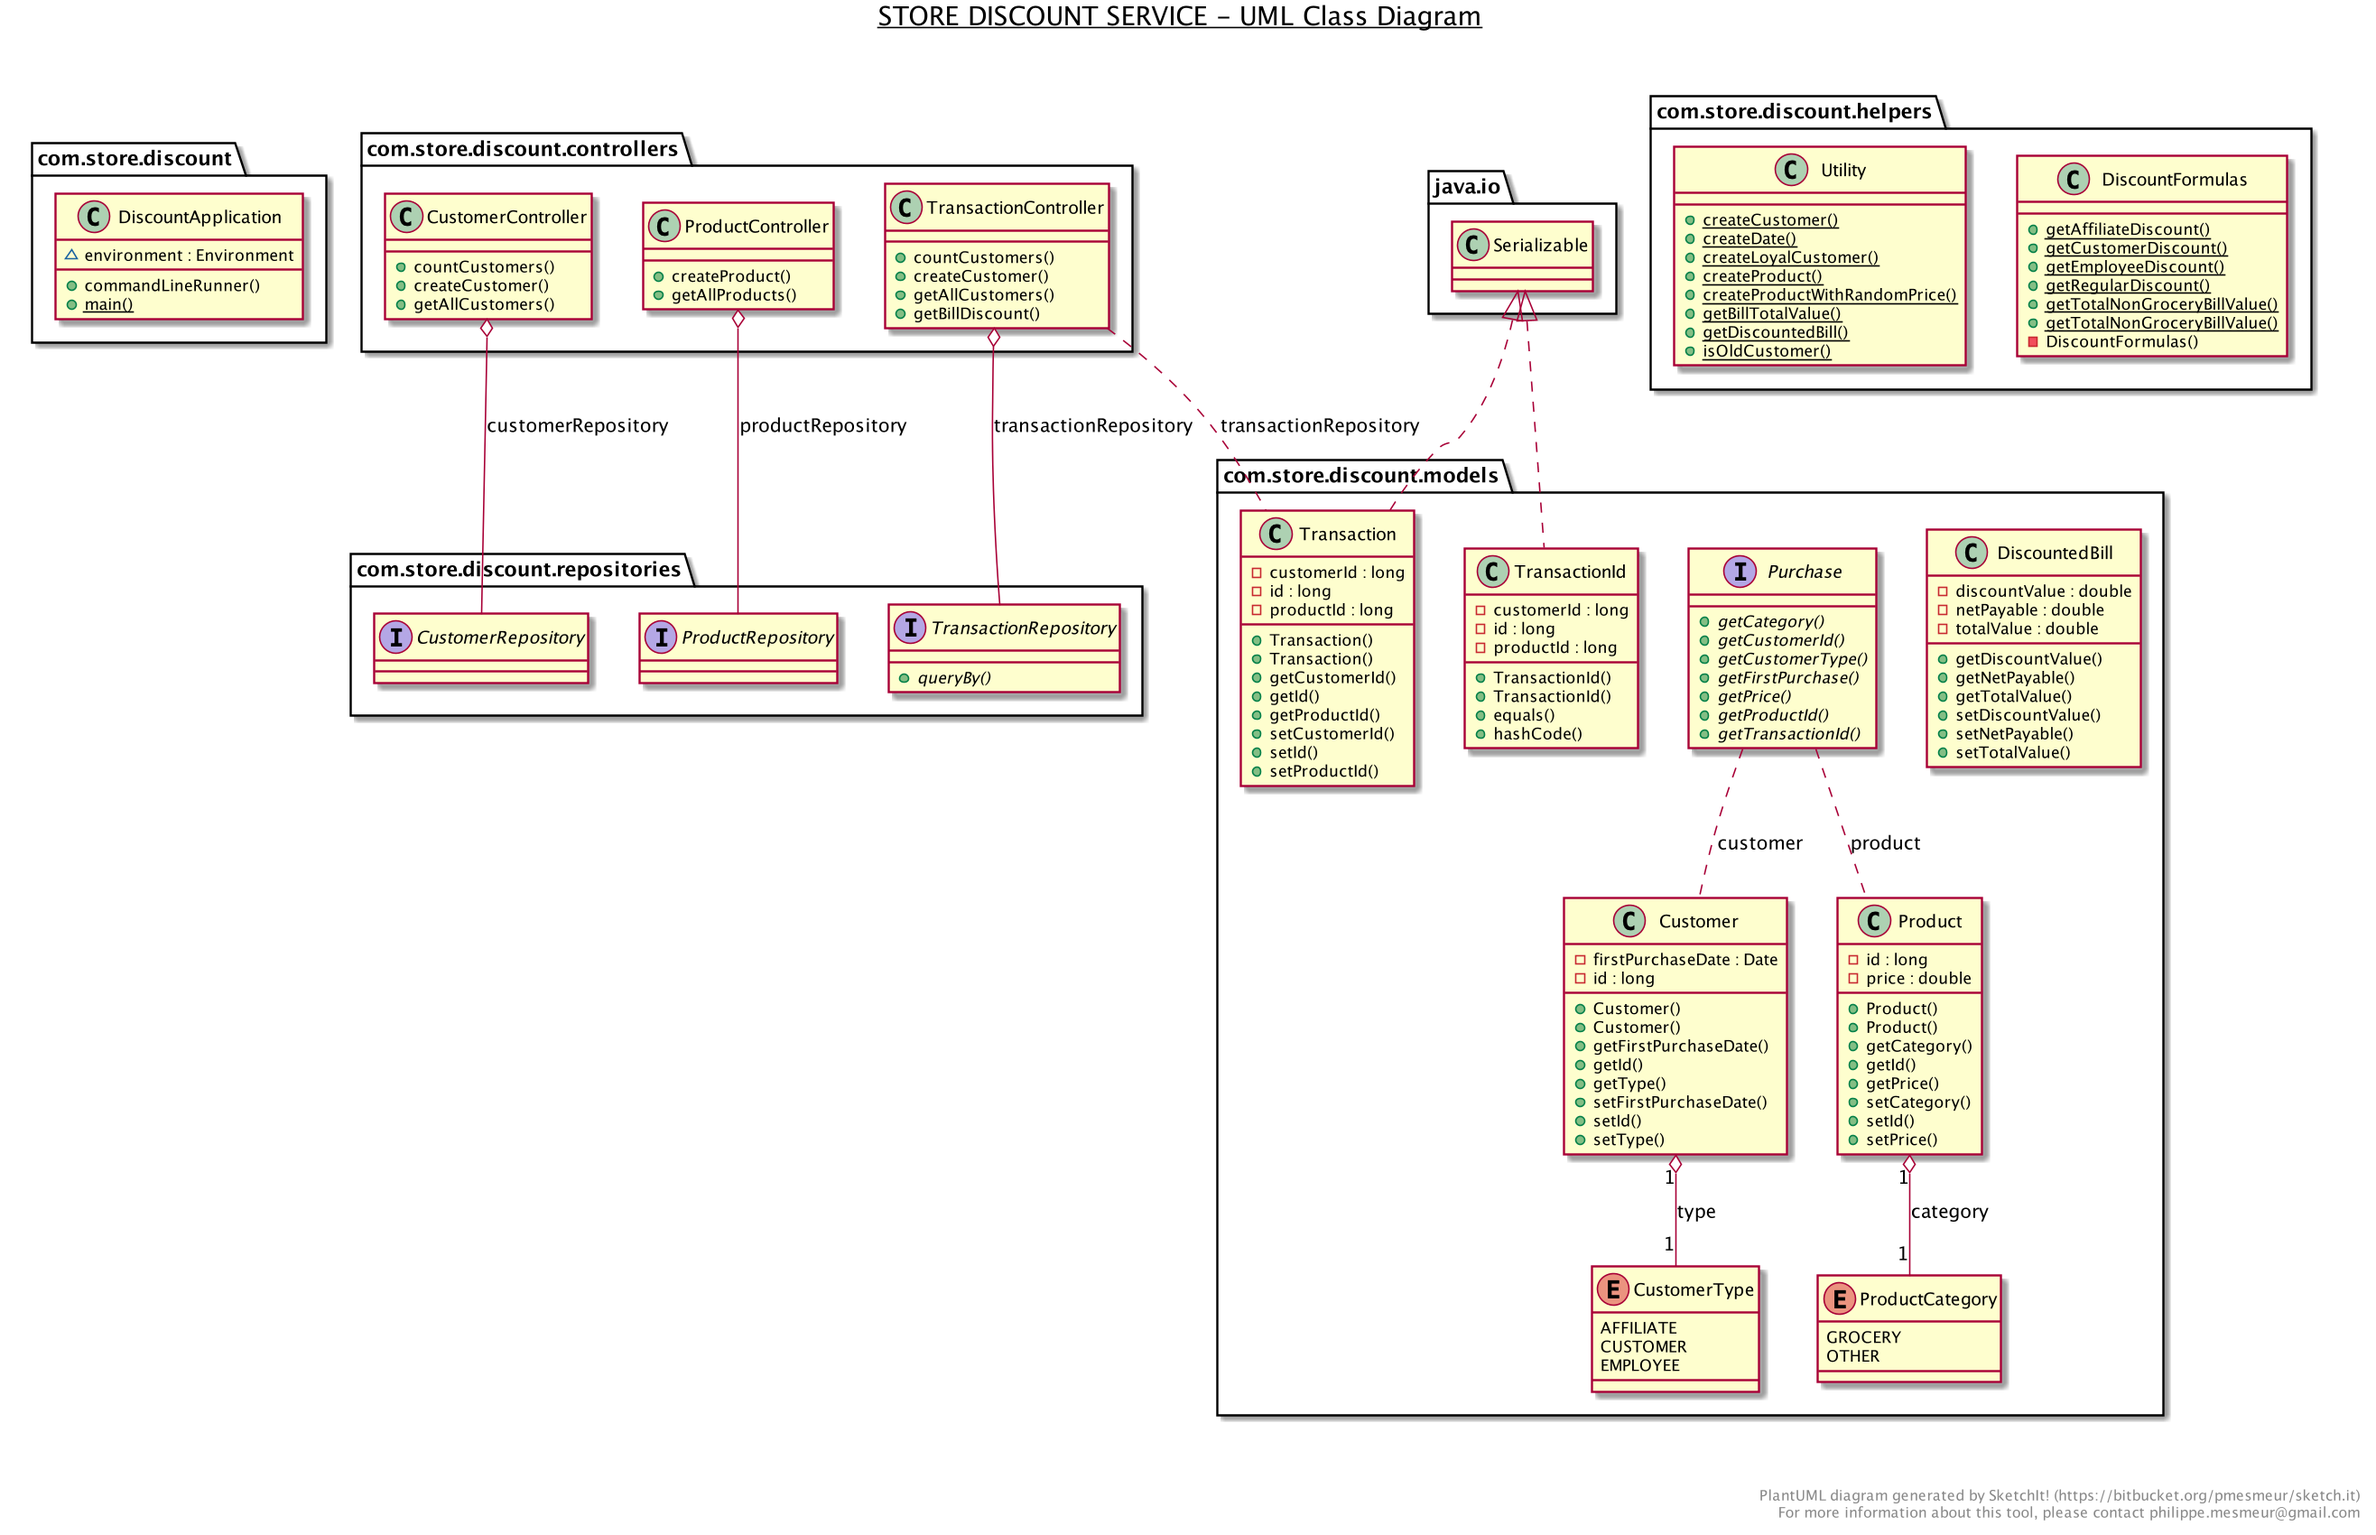
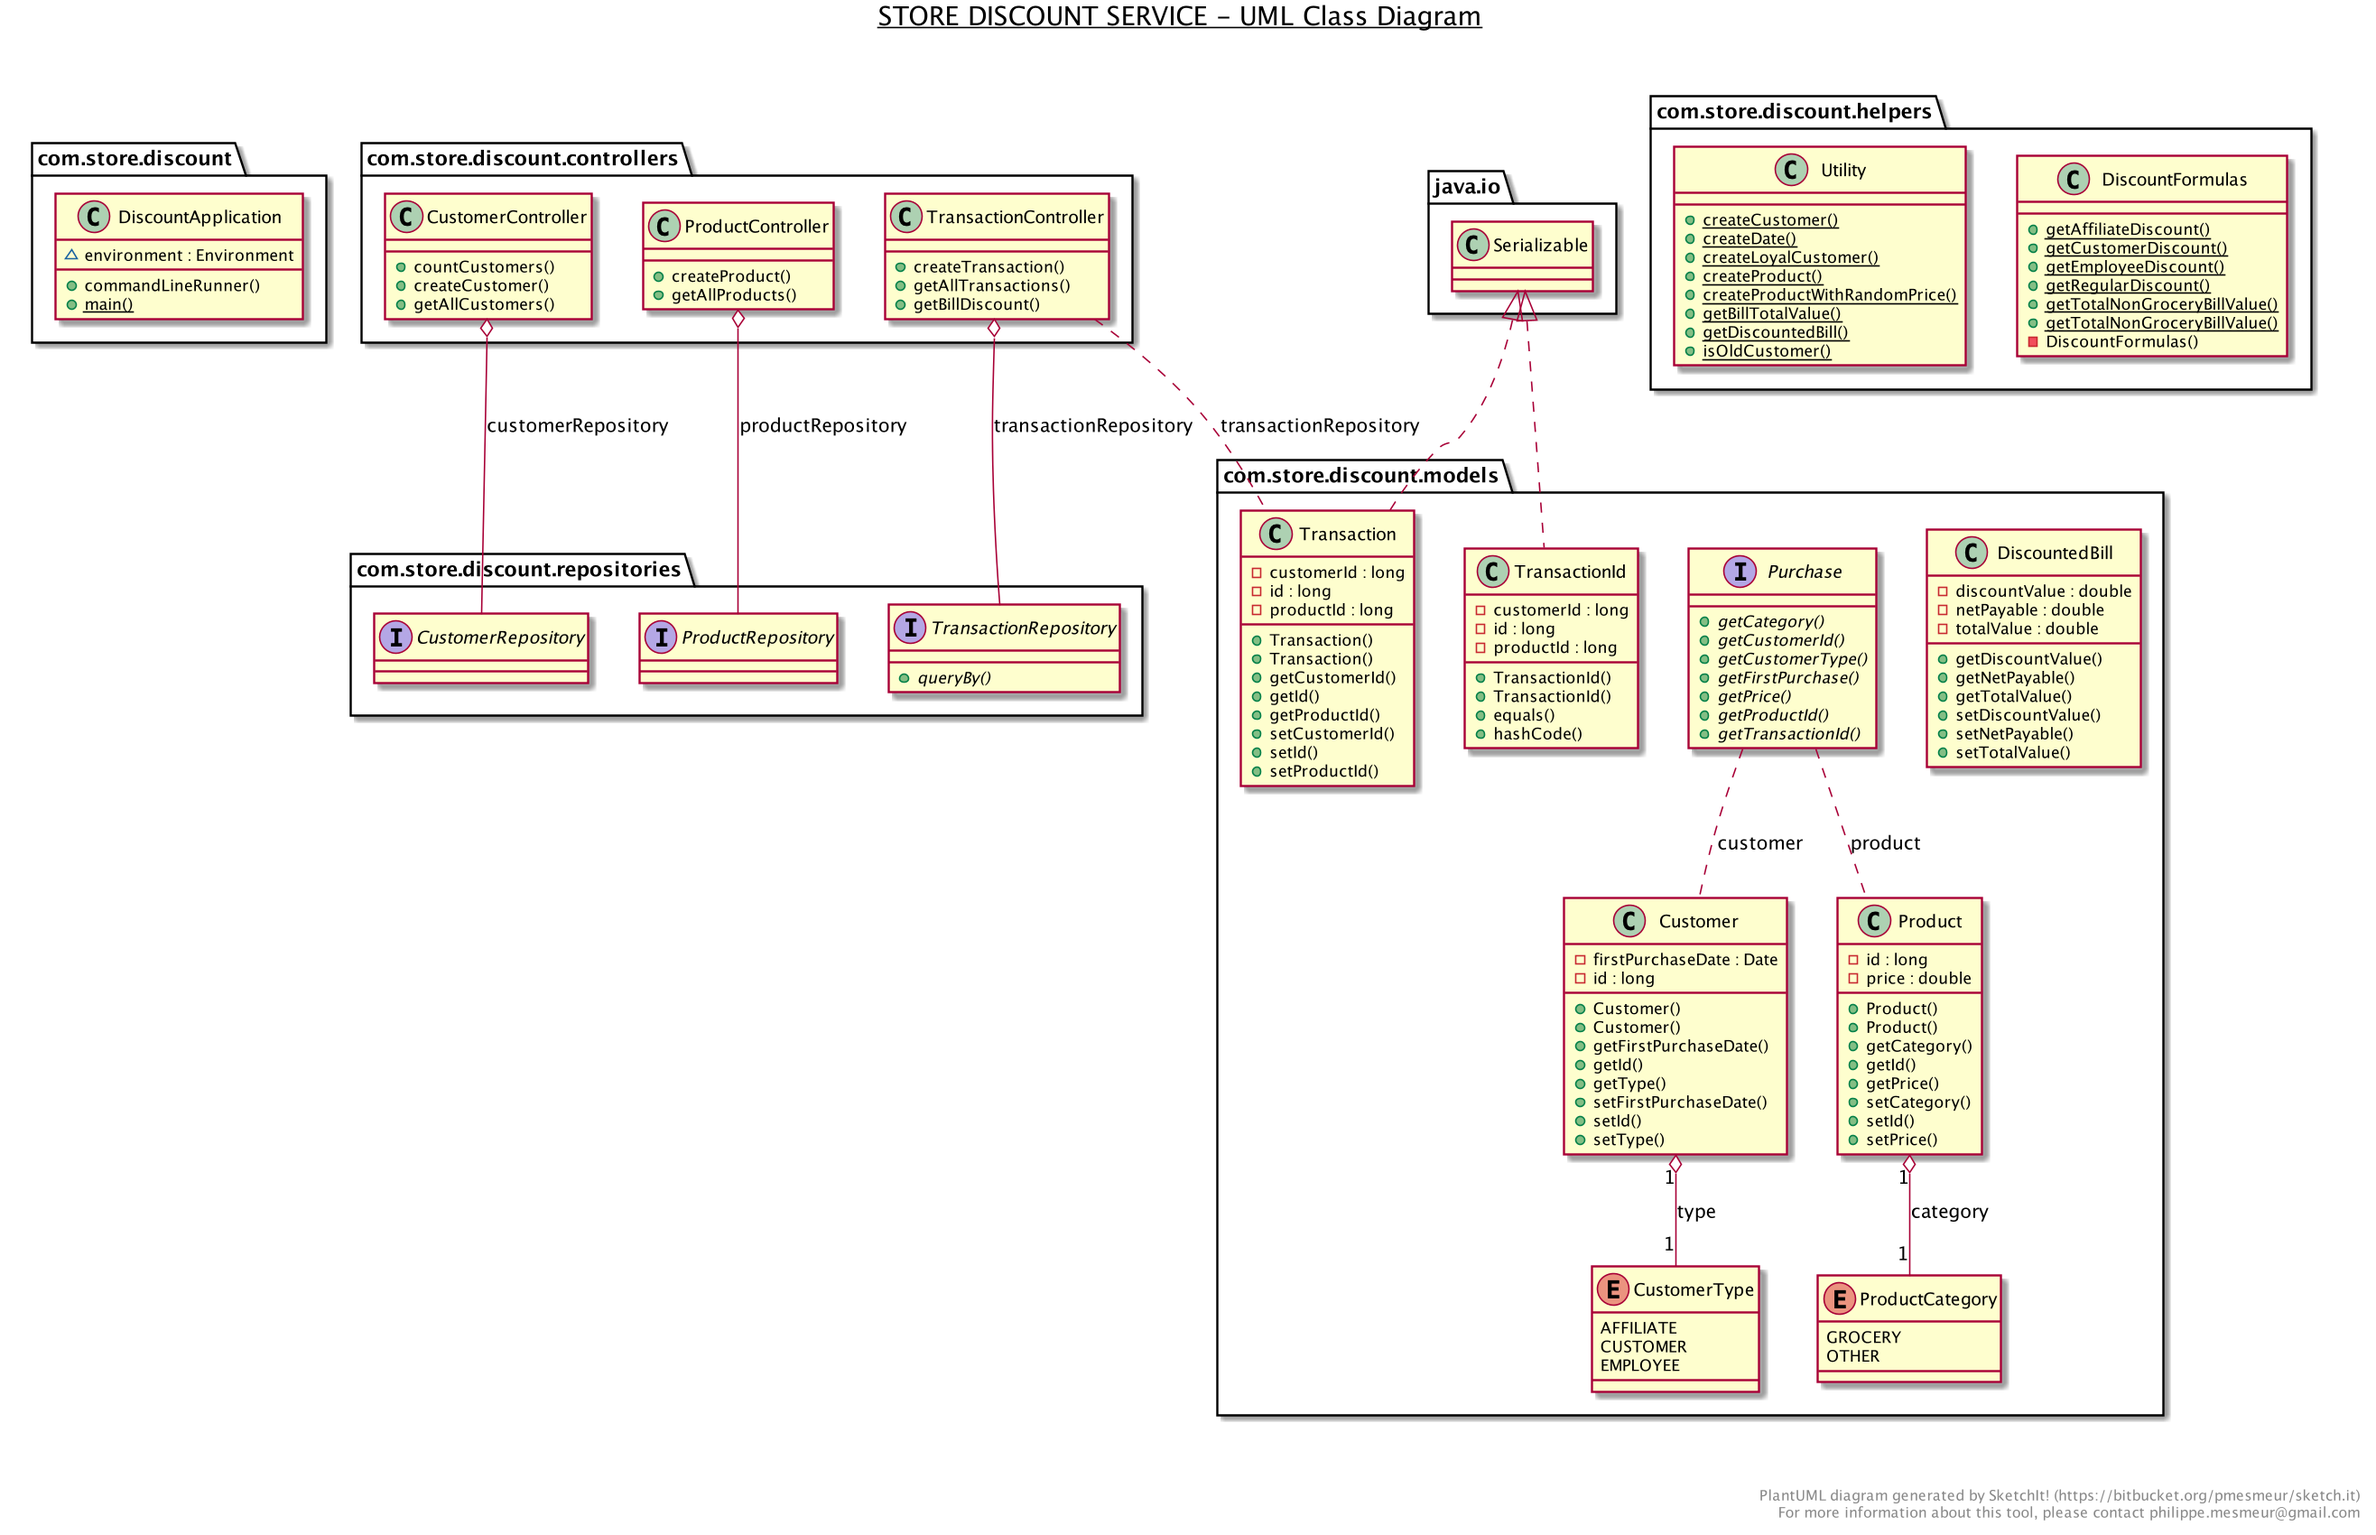
chore: Added API decs to README.md

Changed region(s): [[0.1558, 0.0935, 0.4985, 0.2494]]

diff --git a/src/main/java/com/store/discount/controllers/TransactionController.java b/src/main/java/com/store/discount/controllers/TransactionController.java
@@ -20,18 +20,13 @@ public class TransactionController {
     private TransactionRepository transactionRepository;
 
     @GetMapping("/")
-    public List<Transaction> getAllCustomers() {
+    public List<Transaction> getAllTransactions() {
         return transactionRepository.findAll();
     }
 
     @PostMapping("/")
-    public Transaction createCustomer(@Valid @RequestBody Transaction transaction) {
+    public Transaction createTransaction(@Valid @RequestBody Transaction transaction) {
         return transactionRepository.save(transaction);
-    }
-
-    @GetMapping("/count")
-    public long countCustomers() {
-        return transactionRepository.findAll().size();
     }
 
     @GetMapping("/{transactionId}/customer/{customerId}")

diff --git a/README.md b/README.md
@@ -78,59 +78,33 @@ The command will generate an HTML report under `./target/site/jacoco`.
 After running the project, you can use the discount service through any HTTP client. Here is the end point documentation:
 
 ### End Points
-|HTTP Method|Route                                                       |Description                                      |
-|:----------|:-----------------------------------------------------------|:----------------------------------------------- |
-|`GET`      |[`/`](#get)                                                 |Default route                                    |
-|`POST`      |[`/api/bill-discount`](#post)                              |Calculates the discount available on a bill and the net payable amount     |
+|HTTP Method|Route                                               |Description                                      |
+|:----------|:---------------------------------------------------|:----------------------------------------------- |
+|`GET`      |`/api/customers/`                                   |Gets a list of all customers in DB                                    |
+|`POST`      |`/api/cusomters`                                  |Adds a customer to DB     |
+|`GET`      |`/api/customers/count`                             |Number of customers     |
+|`GET`      |`/api/products`                                    |Gets a list of all products in DB     |
+|`POST`      |`/api/products`                                   |Adds a customer to DB     |
+|`GET`      |`/api/transactions`                                |Gets a list of all transactions in DB     |
+|`POST`      |`/api/transactions`                               |Adds a transaction to DB     |
+|`GET`      |`/api/transactions/{transactionId}/customer/{customerId}`      |Calculates the discount given a customer and transaction id     |
 
 
-#### GET `/`
-Return Hello message
+#### GET `/api/transactions/{transactionId}/customer/{customerId}``
 
-#### POST 
-`/api/bill-discount`
-
-HTTP Method: **POST**
-
-Endpoint: **localhost:8080/api/bill-discount**
-
-Accept: \*/\*
-
-Content-Type: application/json
-
-Sample Request Body:
-```json
- {
- 	"bill": {
- 		"products": [{
- 			"category": "OTHER",
- 			"price": 90.0
- 		}, {
- 			"category": "OTHER",
- 			"price": 500.0
- 		}, {
- 			"category": "OTHER",
- 			"price": 400.0
- 		}, {
- 			"category": "GROCERY",
- 			"price": 700.0
- 		}]
- 	},
- 	"customer": {
- 		"type": "EMPLOYEE",
- 		"firstPurchaseDate": "2015-03-03"
- 	}
- }
-```
-
-Sample Request Body:
-```json
-{
-    "totalValue": 1690.0,
-    "discountValue": 297.0,
-    "netPayable": 1393.0
-}
-```
+* HTTP Method: **POST**
+* Endpoint: `localhost:8080/api/transactions/{transactionId}/customer/{customerId}`
+* Accept: \*/\*
+* Content-Type: application/json
+* Sample Request URL `localhost:8080/api/transactions/1/customer/4`
+* Sample Response Body 
+    ```json
+    {
+      "totalValue": 1690.0,
+      "discountValue": 297.0,
+      "netPayable": 1393.0
+    }
+    ```
 ---
 
 ## UML Diagram
